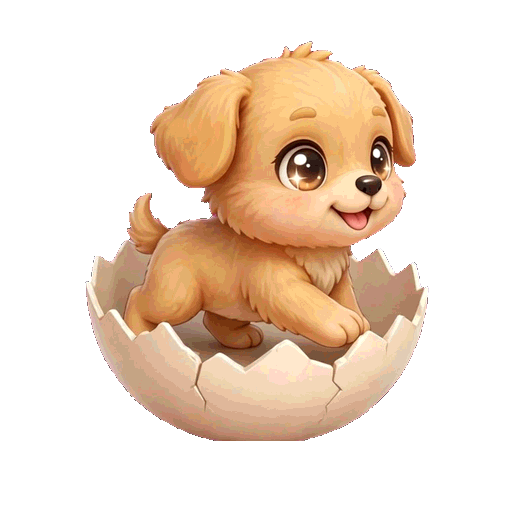
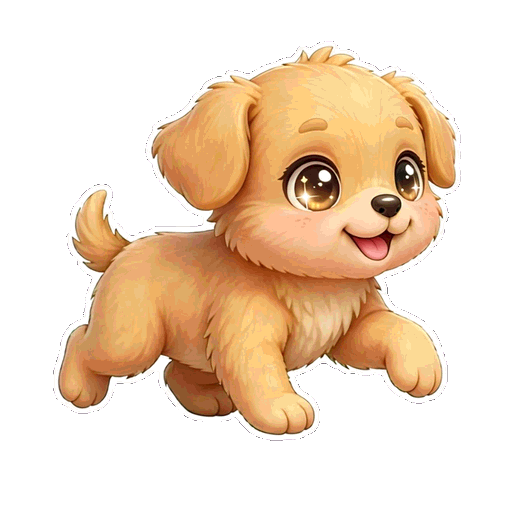
Chó mới nở: 6 khung đi/vui/ngồi vẽ lại không vỏ (Muse), bật khung thật
Claude-Session: https://claude.ai/code/session_01TEW6qvVy4zk3RvbBLFDTR5

diff --git a/app/lib/features/room/pet_art.dart b/app/lib/features/room/pet_art.dart
@@ -24,10 +24,9 @@ const bool eggCrackArtReady = true;
 /// Đã có hình đi/vui/ngồi của pet (Muse) chưa.
 const bool petMotionArtReady = true;
 
-/// Bộ khung chưa dùng được dù cờ đã bật: chó mới nở lô 8B vẽ ngồi
-/// trong vỏ trứng, khác ảnh đứng `dog_newborn.png` (đã ra khỏi vỏ) —
-/// đổi qua lại sẽ nhảy hình. Chờ Muse vẽ lại thì xoá khỏi đây.
-const Set<String> petMotionArtPending = {'dog_newborn'};
+/// Bộ khung chưa dùng được dù cờ đã bật (đang chờ Muse vẽ lại).
+/// Trống từ 22/11: chó mới nở đã vẽ lại không vỏ, khớp ảnh đứng.
+const Set<String> petMotionArtPending = {};
 
 /// Pet [species] ở [stage] có dùng khung đi/vui/ngồi thật không.
 bool petHasMotionArt(String species, PetStage stage) =>

diff --git a/app/test/features/room/pet_sprite_test.dart b/app/test/features/room/pet_sprite_test.dart
@@ -198,8 +198,8 @@ void main() {
   test('khung pet Muse (lô 8B) đã bật, tên file đúng quy ước', () {
     expect(petMotionArtReady, isTrue);
     expect(petHasMotionArt('cat', PetStage.newborn), isTrue);
-    // Chó mới nở: khung lô 8B còn trong vỏ, chờ vẽ lại.
-    expect(petHasMotionArt('dog', PetStage.newborn), isFalse);
+    // Chó mới nở: Muse đã vẽ lại không vỏ (22/11), dùng khung thật.
+    expect(petHasMotionArt('dog', PetStage.newborn), isTrue);
     expect(petHasMotionArt('dog', PetStage.teen), isTrue);
     expect(petWalkAssets('cat', PetStage.teen), [
       'assets/images/pets/cat_teen_walk_a.png',

diff --git a/docs/E_IMAGES.md b/docs/E_IMAGES.md
@@ -967,3 +967,79 @@ nền trắng (ở cỡ app không thấy).
 đầu nhánh `f03322ae`. 8/9 blob SHA đối chiếu khớp trên nhánh; shop_bg không tải lại
 được (giới hạn tool với file ≳400 KB) — một mình trong commit `f03322ae`,
 blob SHA local `d4976e65f25f`, SHA-256 local `aa1f6210f75d`.
+
+### Lô 8 nhóm (B) — Pet chuyển động (54 file, 22/11/2026)
+
+Mỗi loài dog/cat/rabbit × 3 giai đoạn newborn/teen/adult × 6 file
+(`{loài}_{giai đoạn}_walk_a..d.png`, `_happy.png`, `_sit.png`) → 54 file vào
+`app/assets/images/pets/`, 512×512, PNG trong suốt, alpha sạch (semi 0,0000,
+0 px magenta), quantize 256 màu MAXCOVERAGE + Floyd–Steinberg. Vẽ từ 9 ảnh
+giai đoạn lô 5 đã duyệt (giữ đúng nhận dạng pet v2); walk nhìn nghiêng 3/4
+quay PHẢI, chân luân phiên rõ, đầu lệch ≤2 px trong chu kỳ (chuẩn ≤5 px);
+walk/sit chân y=440 (thỏ newborn 438 như bản gốc đã duyệt); happy chân rời
+đất 40 px (y=400, thỏ newborn 398); newborn cả 6 khung vẫn trong mảnh vỏ.
+Đo bằng code ĐẠT hết; soi bằng mắt trên nền tối + trắng + xám + phòng v3b
+cạnh bé gái (tỉ lệ 40/58/72%). Tổng PNG 5.034.330 B (~6,71 MB .b64).
+Nốt nhỏ đã soi: chu kỳ đi newborn chỉ đọc qua đuôi/móng/độ nghiêng (vẫn
+trong vỏ nên chân không rõ như teen/adult); sit dog_adult/cat_adult co nhẹ
+(scale 0,753/0,778 so với walk ~0,76/0,82) để vừa khung; happy nhấc 40 px,
+ở cỡ app là cú nảy nhẹ; cat newborn walk_a mặt hơi xoay về trước; hoa ở
+chân thỏ adult chạm đất trong khung đi (đúng thiết kế đã duyệt). Kỹ thuật:
+vẽ 9 tấm sheet 3×2 rồi cắt bằng code; lỗi đã sửa — bỏ `binary_fill_holes`
+(lấp khe chân làm magenta lọt vào thân ~2.400 px ở dog_adult walk_b/c),
+inset cắt tấm tăng 12→20 px (dải phân cách trắng rộng 16 px, rò 2 px vào
+đỉnh ô hàng 2). Đẩy 7 lần (8+8+8+8+8+8+6): `7dfb5e08` (chó newborn 6 + teen
+walk_a/b), `86ac7b07` (chó teen walk_c/d + happy/sit + adult walk),
+`254746c7` (chó adult happy/sit + mèo newborn 6), `d448b62a` (mèo teen 6 +
+adult walk_a/b), `58e3a7a5` (mèo adult walk_c/d + happy/sit + thỏ newborn
+walk), `aefdbc1b` (thỏ newborn happy/sit + teen 6), `9b1686d5` (thỏ adult 6);
+đầu nhánh `9b1686d5`; 54/54 blob SHA đối chiếu khớp trên nhánh. ĐƯỢC DUYỆT
+22/11 ~12:42 (Claude): cả 54 file, các nốt nhỏ đều chấp nhận, giữ nguyên.
+
+### Lô 8 nhóm (A) — Vỡ trứng từ từ (15 file, 22/11/2026)
+
+Mỗi loài dog/cat/rabbit × 5 file, 512×512, vào `app/assets/images/pets/`:
+`{loài}_egg_crack_1.png` (1 vết nứt nhỏ), `{loài}_egg_crack_2.png` (nứt lan
++ 1 mảnh vỏ bong), `{loài}_egg_crack_3.png` (nứt khắp, nắp hé thấy lông/tai),
+`{loài}_shell_bottom.png` (nửa vỏ dưới rỗng), `{loài}_shell_top.png` (nắp trên rời).
+Làm bằng cách sửa trực tiếp từ ảnh trứng gốc lô 5 (không vẽ lại): đường cắt
+răng cưa ±14 px — chó y≈165, mèo y≈285, thỏ y≈290; nắp crack_3 nâng 16 px +
+xoay 4°, khe tối + dải lông cắt từ đỉnh đầu newborn (chó lông vàng + tai cụp,
+mèo lông cam + tai cam, thỏ lông trắng + tai dài trắng/hồng); 2 mảnh vỏ có
+viền tối trong 12 px + viền cắt tối 2 px; quantize 256 màu bằng palette trứng gốc.
+Kiểm chứng: crack_1/2 silhouette lệch 0 px so với trứng gốc; bottom+top ghép
+lại đúng mặt nạ vỏ (chó 100%, mèo 99,97%, thỏ 99,99%). App: crossfade
+crack_1→2→3 (cùng khung, cùng vị trí), rồi tách nắp trên bay đi, để lại bát vỏ
+rỗng. Nốt: nắp thỏ thưa (vành 3 răng, đầu thỏ chiếm giữa nắp); nắp chó khuyết
+nhỏ góc dưới-trái (chỗ tai gắn); vệt xanh nhạt đáy thỏ là vệt gốc lô 5.
+Kích thước: chó 81.169/85.483/100.865/53.144/22.844 B; mèo 92.672/95.601/
+105.200/33.987/29.150 B; thỏ 69.206/72.623/79.094/34.326/10.866 B.
+Đẩy 2 lần (8+7 file): `00db1263` (5 chó + cat crack_1/2/3), `634f1875`
+(cat shell_bottom/top + 5 thỏ); đầu nhánh sau đẩy `634f1875`; 15/15 blob SHA
+đối chiếu khớp trên nhánh. ĐƯỢC DUYỆT 22/11 ~02:45 (Claude): cả 15 file,
+nắp thỏ giữ như hiện tại, 2 nốt nhỏ còn lại bỏ qua; ĐÃ DECODE + BẬT trong app
+(PR #48, Claude báo 22/11 ~12:42). (Mục doc này lên muộn — lần đẩy doc đầu
+tiên bị service restart gián đoạn, lần đẩy lại thẻ duyệt hết hạn ~03:44 —
+nên gộp chung với mục doc nhóm (C) trong 1 lần đẩy.)
+
+### Lô 8 nhóm (C) — room_v3_clean.png (1 file, 22/11/2026)
+
+Nền phòng sạch 1600×900, PNG đục, 256 màu, 772.906 byte, SHA-256
[1 lines of base64/hex data omitted]
+`app/assets/images/backgrounds/room_v3_clean.png`. Y hệt `room_v3.png`
+(694.028 byte, SHA-256 `a838c756…e41f40`), chỉ xoá 4 đồ rời bằng inpainting
+theo mặt phẳng (Laplace có barrier, 1 px, Neumann) + lấp gradient dọc cho đầu
+giường/tường kem + bóng sách trên bàn: gấu bông x[329,475) y[435,563)
+(18.688 px); đèn sao x[42,223) y[428,613) (33.485 px); bình hoa x[1238,1363)
+y[390,527) + cánh trái + bóng bình (17.709 px, giữ lại đầu phải cuốn sách
+dưới); cốc bút x[1075,1151) y[432,523) (6.916 px). Tổng mask 76.798 px;
+**diff ngoài 4 vùng xoá = 0 px**; chỉ quantize lại trong vùng mask bằng
+palette gốc + Floyd–Steinberg. Đã soi 2× từng vùng + toàn cảnh + ảnh ghép
+đặt lại 4 đồ rời (mỗi món 1 lớp, hết đè 2 lớp). Lưu ý nhỏ: vùng cốc còn mờ
+viền hình chữ nhật ở 2×; vùng bình còn vệt sáng tròn rất mờ ở 2× — cả 2 đều
+chấp nhận được (Claude duyệt 22/11 ~13:24). Đẩy 1 lần: `7d313e94`
+(.b64 1.030.544 B, blob SHA local `eba185cb…`; file ~1 MB nên không đọc lại
+được từ nhánh để đối chiếu — Claude kiểm bằng git khi decode).
+**Sửa D_IMAGES.md (nợ):** mép trái tủ quần áo x≈1360 (không phải 1460–1600);
+kệ x≈1150–1360; bàn kết thúc x≈1360 (không phải 1470); bình hoa đặt trên
+bàn học, không phải trên kệ phải.
